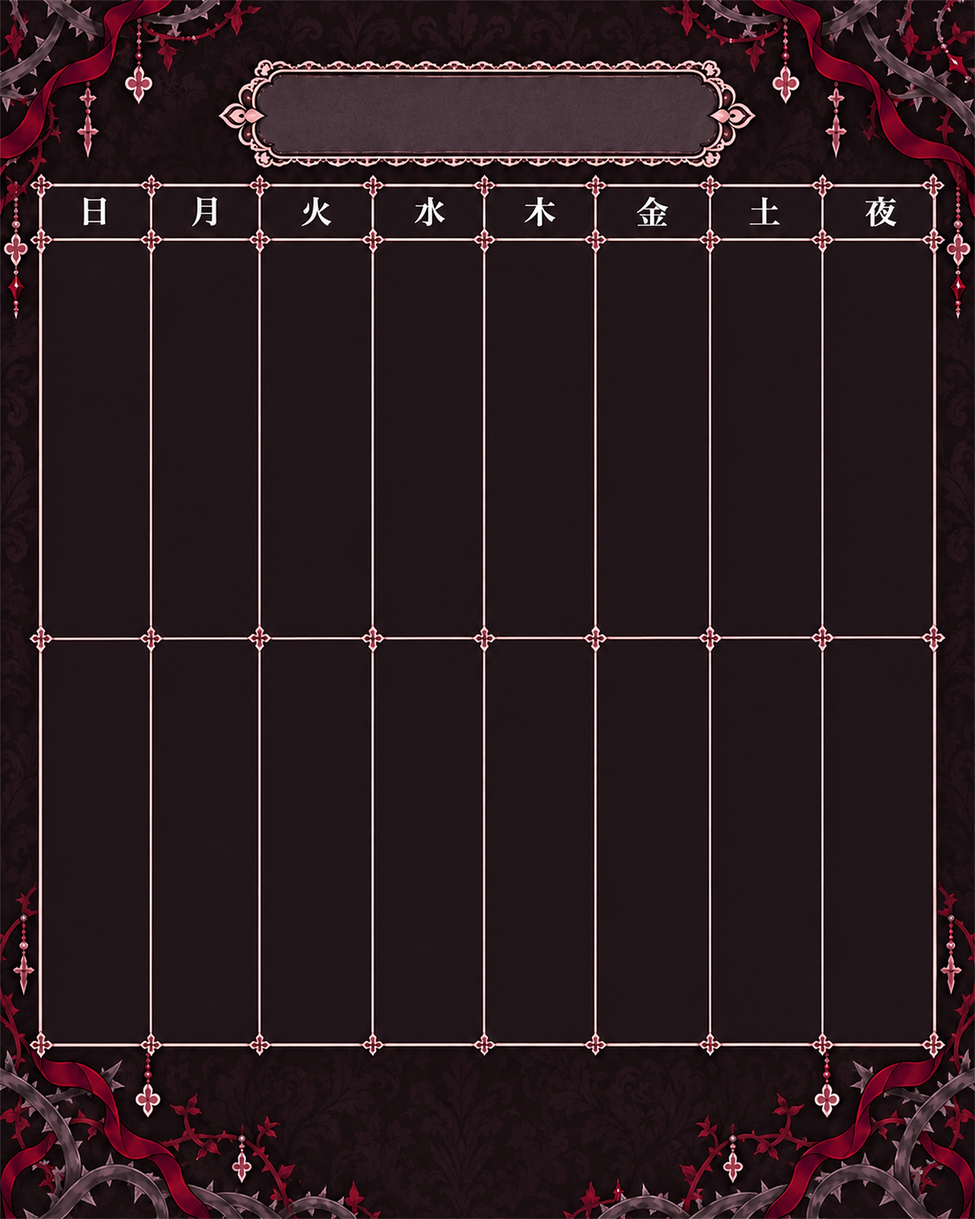
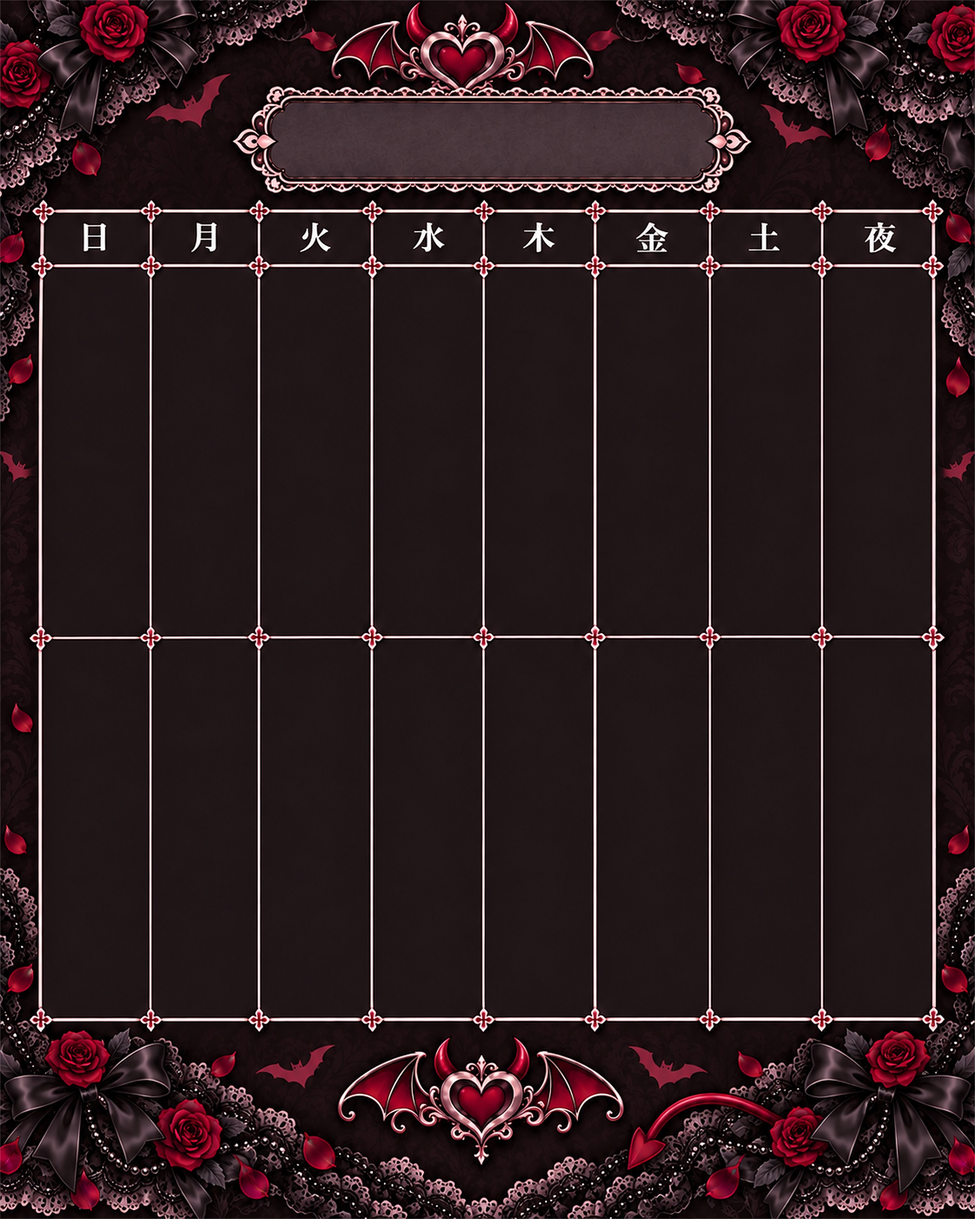
v2 출근표 2주 이미지: 데빌 고스로리 장식, 마츠리 게시글 교체
- 데빌 2주 스토리·게시글: 악마, 박쥐, 고스로리 장식으로 다시 그림
- 마츠리 2주 게시글: 스토리와 같은 세트로 다시 그리고 두 줄 높이를 맞춤
- 긴 날짜(`10 야간`)는 칸 양옆 여백이 남도록 줄임

Changed region(s): [[0.0, 0.0, 1.0, 1.0], [0.0, 0.56, 0.062, 0.6222], [0.0, 0.3733, 0.031, 0.4044]]

diff --git a/v2/staff.html b/v2/staff.html
@@ -4685,12 +4685,12 @@ import { createClient } from 'https://esm.sh/@supabase/supabase-js@2';
 
   // title: [x, y, w, h, 글자색] · x/y: 칸 경계 (2주) · week: 매장별 칸 경계 (1주) · panels: 층 순서대로 [x, y, w, h] (1일) · labels: 층 이름판 [x, y, w, h]
   const LAYOUT = {
-    'story-2w-devil': { title: [281, 260, 517, 105, LIGHT], x: [61, 183, 301, 421, 540, 659, 778, 898, 1020], y: [462, 1011, 1558], fs: 33 },
+    'story-2w-devil': { title: [283, 265, 512, 95, LIGHT], x: [61, 182, 300, 420, 539, 658, 778, 898, 1019], y: [463, 1010, 1557], fs: 33 },
     'story-2w-maid': { title: [275, 266, 528, 107, DARK], x: [61, 198, 334, 472, 609, 746, 882, 1019], y: [464, 1011, 1563], fs: 36 },
     'story-2w-matsuri': { title: [275, 264, 523, 113, DARK], x: [61, 197, 336, 470, 609, 745, 883, 1019], y: [461, 1012, 1561], fs: 36 },
-    'post-2w-devil': { title: [289, 82, 510, 91, LIGHT], x: [45, 167, 287, 413, 536, 659, 786, 911, 1035], y: [265, 707, 1157], fs: 33 },
+    'post-2w-devil': { title: [304, 116, 482, 81, LIGHT], x: [44, 166, 286, 411, 535, 658, 786, 910, 1034], y: [295, 706, 1128], fs: 33 },
     'post-2w-maid': { title: [289, 67, 505, 82, DARK], x: [53, 194, 333, 471, 609, 746, 886, 1026], y: [245, 717, 1182], fs: 36 },
-    'post-2w-matsuri': { title: [272, 61, 537, 93, DARK], x: [52, 192, 331, 471, 610, 750, 890, 1029], y: [235, 752, 1234], fs: 36 },
+    'post-2w-matsuri': { title: [272, 67, 534, 86, DARK], x: [52, 191, 330, 471, 609, 749, 889, 1028], y: [235, 708, 1180], fs: 36 },
     'story-1w': { title: [267, 161, 546, 77, DARK], labels: [[415, 264, 249, 36], [415, 705, 249, 36], [415, 1189, 250, 40]], week: [[[56, 177, 300, 420, 541, 661, 782, 904, 1025], 384, 678], [[56, 195, 333, 471, 609, 748, 886, 1025], 828, 1161], [[56, 195, 332, 471, 609, 747, 886, 1025], 1315, 1649]], fs: 28 },
     'post-1w': { title: [313, 92, 454, 64, DARK], labels: [[427, 180, 225, 24], [427, 547, 225, 25], [427, 896, 225, 25]], week: [[[53, 173, 296, 419, 540, 661, 784, 907, 1025], 279, 504], [[54, 191, 330, 471, 610, 750, 889, 1025], 646, 856], [[54, 191, 330, 470, 610, 750, 889, 1025], 996, 1202]], fs: 26 },
     'story-1d': { title: [277, 198, 527, 82, DARK], labels: [[430, 313, 219, 37], [430, 754, 219, 37], [430, 1203, 219, 38]], panels: [[101, 379, 879, 333], [101, 820, 879, 343], [101, 1269, 879, 347]], fs: 58 },
@@ -4779,6 +4779,8 @@ import { createClient } from 'https://esm.sh/@supabase/supabase-js@2';
     ls.forEach(l => {
       const h = lineH(l, fs, lh) * sq, [font, color] = STYLE[l.kind](fs, th);
       c.font = font;
+      // `10 야간` 처럼 긴 날짜는 칸 양옆에 여백이 남도록 줄여요
+      if (l.kind === 'date') { const tw = c.measureText(l.text).width, room = w - 24; if (tw > room) c.font = fontOf(F.body, fs * 1.05 * room / tw); }
       if (l.kind === 'gn') pill(c, cx, py + h / 2, l.text, w - 8, fs, th, h - 1);
       else { c.fillStyle = color; c.fillText(String(l.text), cx, py + h / 2, w - 10); }
       py += h;

diff --git a/v2/staff-src/js/33-export.js b/v2/staff-src/js/33-export.js
@@ -21,12 +21,12 @@
 
   // title: [x, y, w, h, 글자색] · x/y: 칸 경계 (2주) · week: 매장별 칸 경계 (1주) · panels: 층 순서대로 [x, y, w, h] (1일) · labels: 층 이름판 [x, y, w, h]
   const LAYOUT = {
-    'story-2w-devil': { title: [281, 260, 517, 105, LIGHT], x: [61, 183, 301, 421, 540, 659, 778, 898, 1020], y: [462, 1011, 1558], fs: 33 },
+    'story-2w-devil': { title: [283, 265, 512, 95, LIGHT], x: [61, 182, 300, 420, 539, 658, 778, 898, 1019], y: [463, 1010, 1557], fs: 33 },
     'story-2w-maid': { title: [275, 266, 528, 107, DARK], x: [61, 198, 334, 472, 609, 746, 882, 1019], y: [464, 1011, 1563], fs: 36 },
     'story-2w-matsuri': { title: [275, 264, 523, 113, DARK], x: [61, 197, 336, 470, 609, 745, 883, 1019], y: [461, 1012, 1561], fs: 36 },
-    'post-2w-devil': { title: [289, 82, 510, 91, LIGHT], x: [45, 167, 287, 413, 536, 659, 786, 911, 1035], y: [265, 707, 1157], fs: 33 },
+    'post-2w-devil': { title: [304, 116, 482, 81, LIGHT], x: [44, 166, 286, 411, 535, 658, 786, 910, 1034], y: [295, 706, 1128], fs: 33 },
     'post-2w-maid': { title: [289, 67, 505, 82, DARK], x: [53, 194, 333, 471, 609, 746, 886, 1026], y: [245, 717, 1182], fs: 36 },
-    'post-2w-matsuri': { title: [272, 61, 537, 93, DARK], x: [52, 192, 331, 471, 610, 750, 890, 1029], y: [235, 752, 1234], fs: 36 },
+    'post-2w-matsuri': { title: [272, 67, 534, 86, DARK], x: [52, 191, 330, 471, 609, 749, 889, 1028], y: [235, 708, 1180], fs: 36 },
     'story-1w': { title: [267, 161, 546, 77, DARK], labels: [[415, 264, 249, 36], [415, 705, 249, 36], [415, 1189, 250, 40]], week: [[[56, 177, 300, 420, 541, 661, 782, 904, 1025], 384, 678], [[56, 195, 333, 471, 609, 748, 886, 1025], 828, 1161], [[56, 195, 332, 471, 609, 747, 886, 1025], 1315, 1649]], fs: 28 },
     'post-1w': { title: [313, 92, 454, 64, DARK], labels: [[427, 180, 225, 24], [427, 547, 225, 25], [427, 896, 225, 25]], week: [[[53, 173, 296, 419, 540, 661, 784, 907, 1025], 279, 504], [[54, 191, 330, 471, 610, 750, 889, 1025], 646, 856], [[54, 191, 330, 470, 610, 750, 889, 1025], 996, 1202]], fs: 26 },
     'story-1d': { title: [277, 198, 527, 82, DARK], labels: [[430, 313, 219, 37], [430, 754, 219, 37], [430, 1203, 219, 38]], panels: [[101, 379, 879, 333], [101, 820, 879, 343], [101, 1269, 879, 347]], fs: 58 },
@@ -115,6 +115,8 @@
     ls.forEach(l => {
       const h = lineH(l, fs, lh) * sq, [font, color] = STYLE[l.kind](fs, th);
       c.font = font;
+      // `10 야간` 처럼 긴 날짜는 칸 양옆에 여백이 남도록 줄여요
+      if (l.kind === 'date') { const tw = c.measureText(l.text).width, room = w - 24; if (tw > room) c.font = fontOf(F.body, fs * 1.05 * room / tw); }
       if (l.kind === 'gn') pill(c, cx, py + h / 2, l.text, w - 8, fs, th, h - 1);
       else { c.fillStyle = color; c.fillText(String(l.text), cx, py + h / 2, w - 10); }
       py += h;
